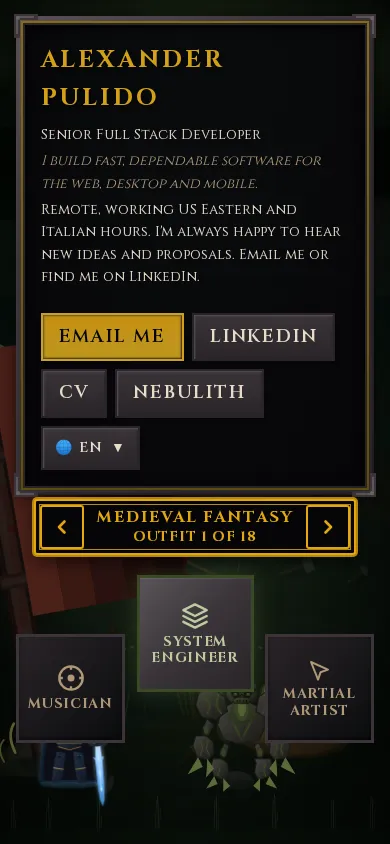
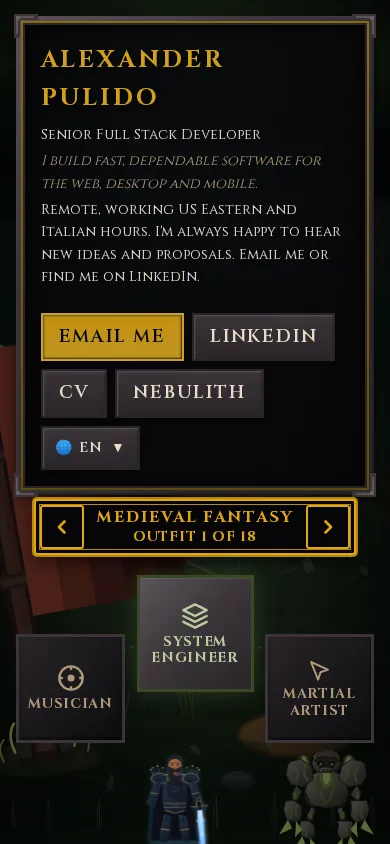
fix: medieval fantasy on a phone stands each section's units up the screen, their floor at about 60% of it, so they play clear of the cards rising from below while the 130svh head holds them alone, and the hero's king and golem stand low and smaller under the profession menu, the king below its midd

Changed region(s): [[0.3692, 0.8009, 0.9538, 1.0], [0.0923, 0.8626, 0.2769, 0.955]]

diff --git a/src/components/themes/MedievalFantasy/world.module.css b/src/components/themes/MedievalFantasy/world.module.css
@@ -19,9 +19,13 @@
 
 /* The field's bands: chaos units play right of the text column (about x 1080 to 1660 of the 1920 field), frost
    units left of it (about 280 to 820). Under 1024 px the screen shows only the field's middle, so each band
-   shrinks to two thirds about its own middle and moves there. */
+   shrinks to two thirds about its own middle and moves there. On a phone each band also stands up the screen,
+   its floor at about 60% of it, so the units play clear of the cards rising from below while the head holds
+   them alone; the hero's units stand low instead, the king under the middle node of the profession menu and
+   the golem under the right one, smaller, clear of the menu the hero card ends on. */
 @media (max-width: 1023.98px) {
-  .chaosBand {
+  .chaosBand,
+  .heroBand {
     transform: translateX(-410px) scale(0.66);
     transform-origin: 1370px 1000px;
   }
@@ -29,6 +33,21 @@
   .frostBand {
     transform: translateX(410px) scale(0.66);
     transform-origin: 550px 1000px;
+  }
+}
+
+@media (max-width: 767.98px) {
+  .chaosBand {
+    transform: translate(-410px, -350px) scale(0.66);
+  }
+
+  .frostBand {
+    transform: translate(410px, -350px) scale(0.66);
+  }
+
+  .heroBand {
+    transform: translate(-195px, 75px) scale(0.58);
+    transform-origin: 1130px 1000px;
   }
 }
 

diff --git a/src/components/themes/MedievalFantasy/scenes.tsx b/src/components/themes/MedievalFantasy/scenes.tsx
@@ -709,11 +709,14 @@ export function scenesOf(slots: readonly SectionSlot[], labels: Labels, highligh
   ]
 }
 
+/** The band a scene's units stand in (world.module.css): the hero's own, else its realm's. */
+const bandOf = ({ id, realm }: RealmScene): string => (id === 'hero' ? look.heroBand : realm === 'chaos' ? look.chaosBand : look.frostBand)
+
 /** A scene's field: its units in the 1920 by 1080 picture, cut from its foot to the screen. */
 function Field({ scene }: { scene: RealmScene }) {
   return (
     <svg className="block h-full w-full" viewBox={`0 0 ${FIELD.width} ${FIELD.height}`} preserveAspectRatio="xMidYMax slice" aria-hidden="true" focusable="false">
-      <g className={scene.realm === 'chaos' ? look.chaosBand : look.frostBand}>{SCENES[scene.id].figure(scene)}</g>
+      <g className={bandOf(scene)}>{SCENES[scene.id].figure(scene)}</g>
     </svg>
   )
 }
